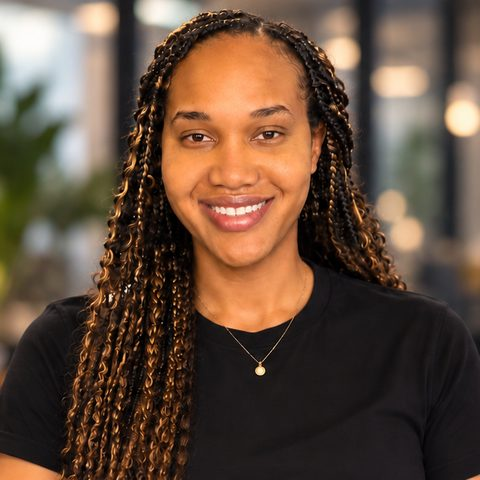
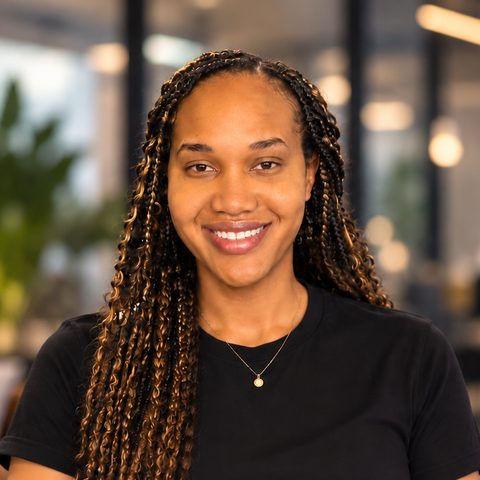
Lower the headshot crop to show more headroom and shoulders.
Claude-Session: https://claude.ai/code/session_012Qh7BgGKDPQnNivwTMmPRp

diff --git a/index.html b/index.html
@@ -833,7 +833,7 @@
       </div>
       <div class="portrait">
         <img
-          src="assets/whitney-headshot.jpg?v=20261030"
+          src="assets/whitney-headshot.jpg?v=20261030b"
           alt="Whitney Kotlewski"
           width="480"
           height="480"
